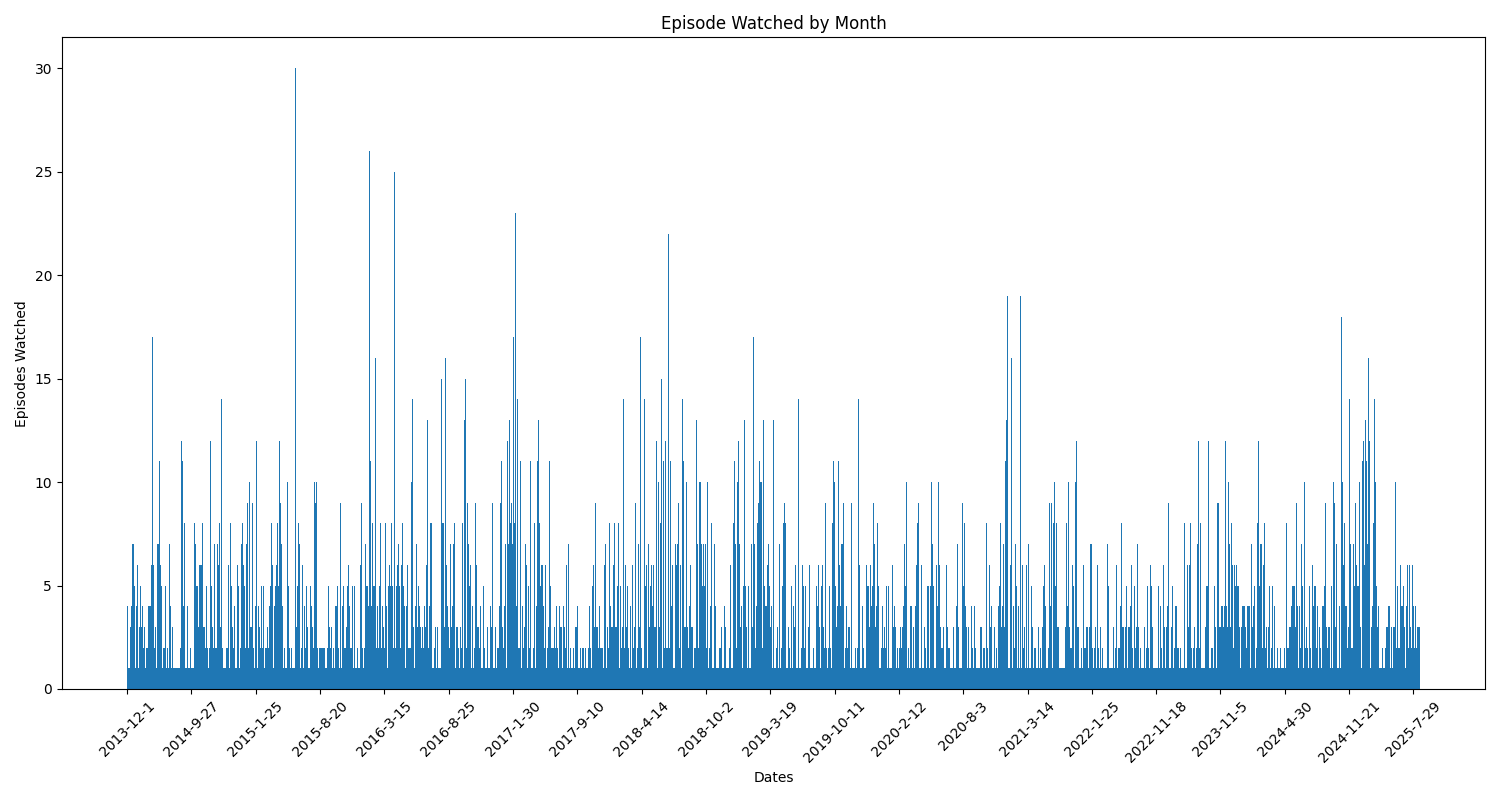
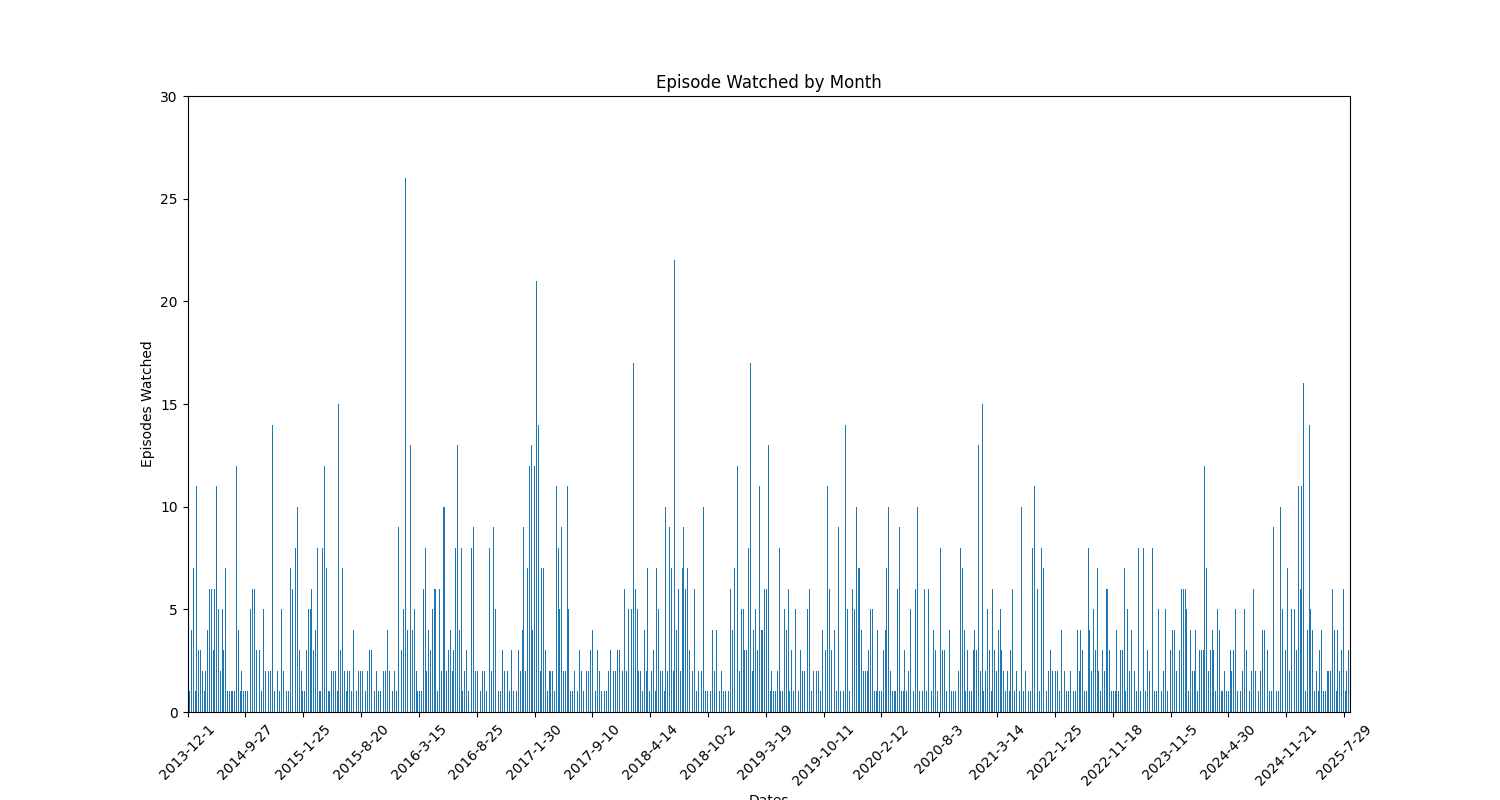
Change plot layout

diff --git a/project.py b/project.py
@@ -3,6 +3,8 @@ import matplotlib.pyplot as plt
 import matplotlib.dates  as mdates
 import matplotlib.units as munits
 import numpy as np
+import pandas as pd
+import datetime as dt
 
 def main():
     # Get file path from user
@@ -14,7 +16,7 @@ def main():
     watched = list_watched_titles(titles)
     
     print(f"Unique titles watched: ", len(watched))
-    plot_shows_watched_by_month(titles, dates)
+    plot_shows_watched_by_day(titles, dates)
     
 
 
@@ -39,17 +41,19 @@ def get_info(netflix_view_hist):
 
 
 # Use function to get view by month or year, maybe days
+# TODO Makes this using pandas?
 def parse_date(dates):
     formatted_dates = []
     for date in dates:
         month, day, year = date.split("/")
         formatted_dates.append(f"20{year}-{month}-{day}")
     formatted_dates.reverse()
-    print(formatted_dates)
     return formatted_dates
 
 
-def plot_shows_watched_by_month(titles, dates):
+def plot_shows_watched_by_day(titles, dates):
+    
+    # TODO Add days where nothing was watched
     unique_dates = []
     counts_per_date = []
     for date in dates:
@@ -71,17 +75,18 @@ def plot_shows_watched_by_month(titles, dates):
     
     print(len(unique_dates), " --- ", len(counts_per_date))
     
+    
     # FIXME Put this someplace else
     plt.figure(figsize=(15, 8))
-    plt.bar(unique_dates, counts_per_date,width=1.2)
+    plt.bar(unique_dates, counts_per_date,width=0.5)
     
-    plt.xticks(rotation=45)
     interval = max(1, len(unique_dates) // 20)  # Choose to show about 20 ticks
-    plt.xticks(unique_dates[::interval])
+    plt.xticks(unique_dates[::interval], rotation=45)
     plt.xlabel('Dates')
     plt.ylabel('Episodes Watched')
     plt.title('Episode Watched by Month')
-    plt.tight_layout() 
+    plt.margins(0.0, 0) # TODO Decide margins
+    #plt.tight_layout() 
     plt.savefig("test.png")
 
 # Use function to get all shows, maybe show repeat viewings
